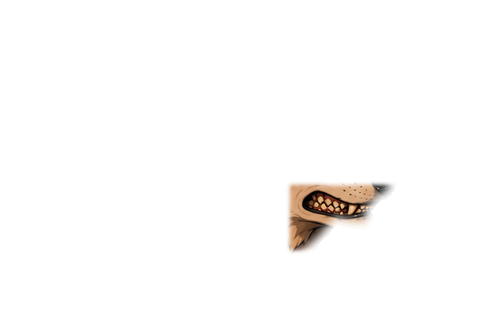
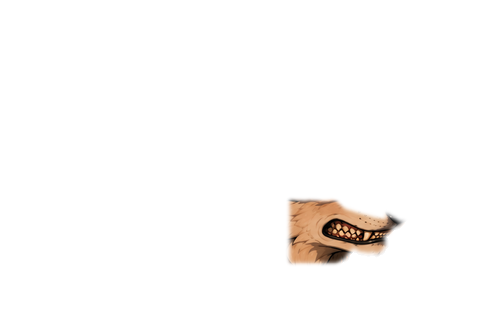
The Wolf Man's speaking mouths: one snout, one nose
Each mouth patch is a whole muzzle, and the matcher had put them at five
sizes, so as he spoke a second nose and a second row of whisker dots
appeared beside his own and his snout changed size. refit.py places each by
its upper snout; the mouth region stays off the nose and whisker pad and
paints his own lip line out under the patch. m and l use his rest mouth.

Claude-Session: https://claude.ai/code/session_019thEyro236fsrr7rZzUfjA

Changed region(s): [[0.5711, 0.5625, 0.8116, 0.8438]]

diff --git a/art-tools/wolf_man_parts/refit.py b/art-tools/wolf_man_parts/refit.py
@@ -1,0 +1,35 @@
+# The Wolf Man's mouth patches, refitted by the snout. Each patch is a whole
+# muzzle (nose, whisker pad, jaw), and face_rig's matcher, fitting the whole
+# patch, put them at scales from 0.63 to 0.84: as he spoke his snout changed
+# size, and a second nose and a second row of whisker dots showed beside his
+# own. Here each is placed by its upper snout alone (the nose and the whisker
+# pad, which the open mouths do not change) against the master, and the fits
+# are written to wolf_man_rig/face/fits.json. Then face_rig (face.json keeps
+# the mouth region off the nose) bakes them:
+#   python3 art-tools/wolf_man_parts/refit.py
+#   (cd art-tools && python3 face_rig.py wolf_man_parts/face.json wolf_man_parts/wolf_man_rig/face)
+import os, json, sys
+import numpy as np
+from PIL import Image
+
+K = os.path.dirname(os.path.abspath(__file__)) + '/'
+sys.path.insert(0, os.path.dirname(K.rstrip('/')))
+import face_rig
+
+F = K + 'wolf_man_face/'
+master = Image.open(F + 'wolf_man_master.png').convert('RGBA')
+R = np.array(master).astype(float)
+fits_path = K + 'wolf_man_rig/face/fits.json'
+fits = json.load(open(fits_path))
+for i in range(9, 19):
+    name = f'wolf_man_face_{i:02d}.png'
+    P = Image.open(F + name).convert('RGBA')
+    # the upper snout: the right half, above the mouth
+    cx0, cy0 = int(P.width * 0.5), 0
+    crop = P.crop((cx0, cy0, P.width, int(P.height * 0.42)))
+    old = fits.get(name, [300, 160, 0.7])
+    _, x, y, k = face_rig._search(R, crop, np.arange(0.56, 0.86, 0.01),
+                                  range(int(old[0] + cx0 * 0.4), int(old[0] + cx0 * 1.0)), range(150, 215))
+    fits[name] = [int(round(x - cx0 * k)), int(round(y - cy0 * k)), round(float(k), 3)]
+    print(name, 'was', old, 'now', fits[name])
+json.dump(fits, open(fits_path, 'w'), indent=1)
